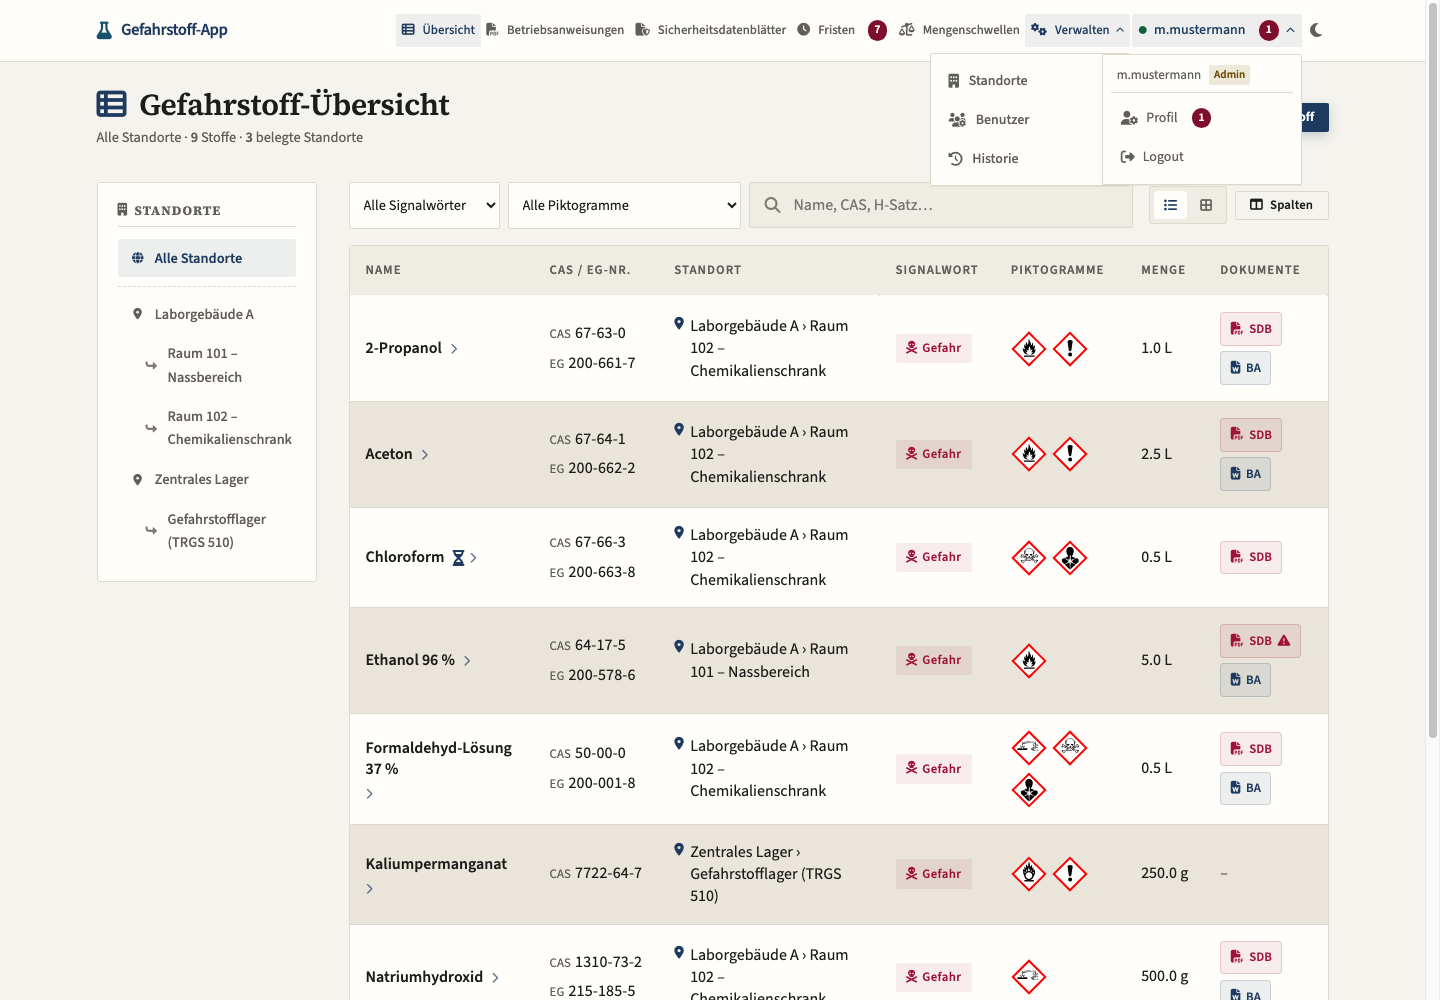
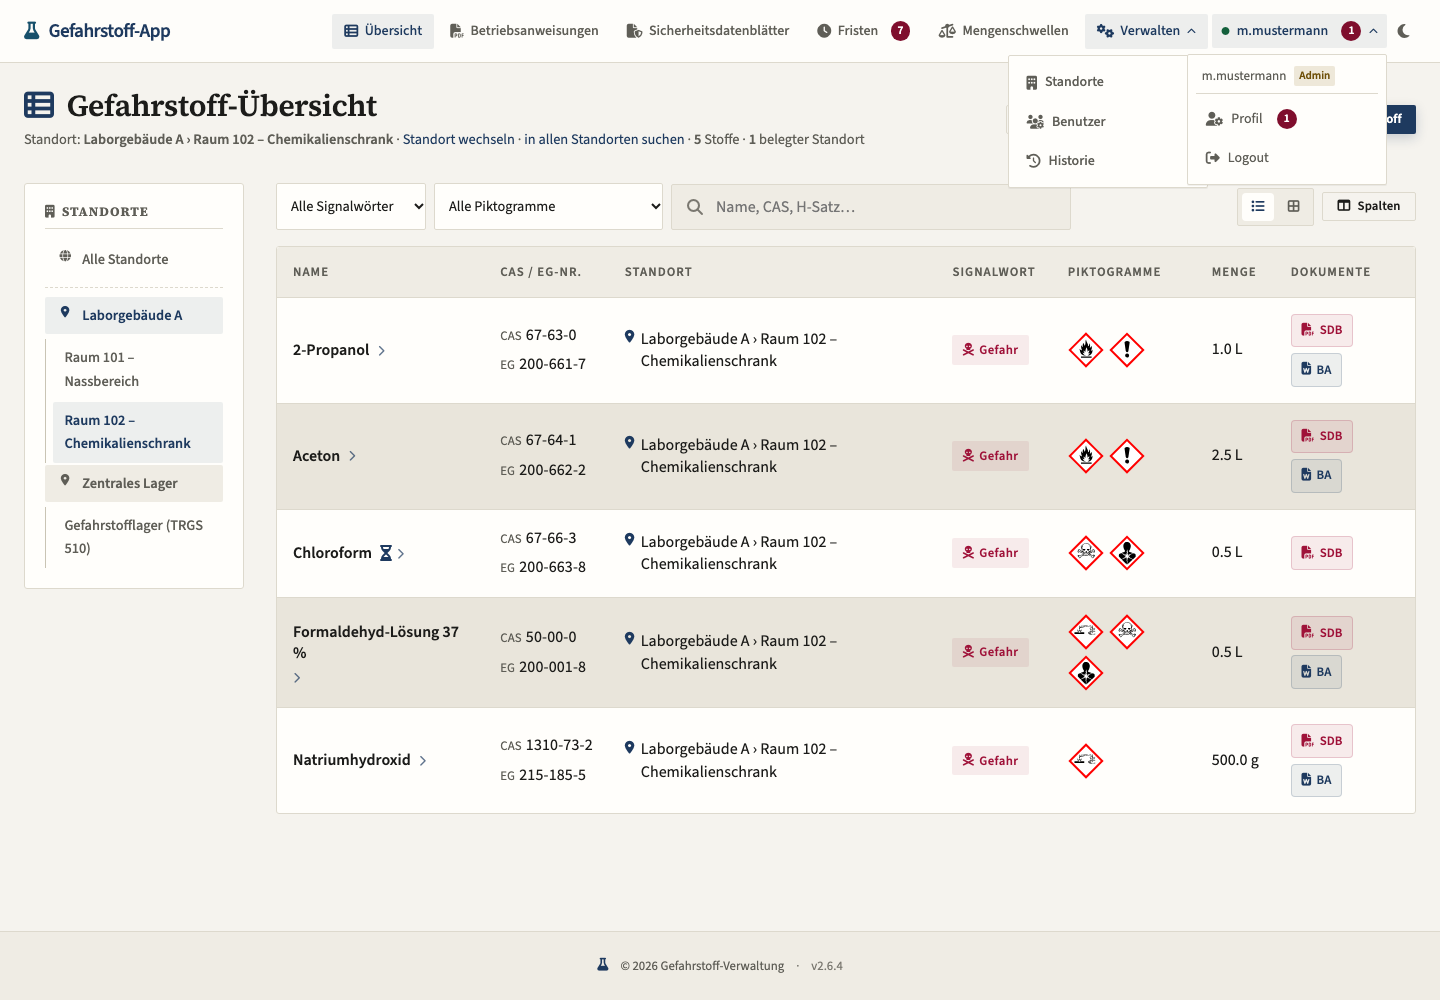
docs(handbuch): Bilder zur Standortansicht, Suche und Druck neu erzeugt
- 01-dashboard zeigt jetzt die Standortansicht (vorher die Gesamtliste)
- neu: 01-standortauswahl, 07-suche (drei Treffer aus zwei Standorten),
  08-verzeichnis-druck
- HANDBUCH bindet die drei neuen Bilder in 3.2, 3.4 und 3.5 ein
- werkzeuge/handbuchbilder.py: Standort-ID im Pfad, neue Seiten mit
  Bildhoehen, FLASK_SECRET_KEY als Wegwerfwert (die App bricht ohne ihn
  beim Import ab), veralteter Chloroform-Kommentar richtiggestellt

diff --git a/werkzeuge/handbuchbilder.py b/werkzeuge/handbuchbilder.py
@@ -43,15 +43,24 @@ CHROME = os.environ.get(
 # (Name, Kürzel, Breite, Höhe, eingeloggt, Menüs offen)
 SEITEN = [
     ('00-login', '/login', 1440, 760, False, False),
-    ('01-dashboard', '/', 1440, 1000, True, False),
+    # Seit v3.45 ist der Einstieg die Standortauswahl; '/' leitet weiter.
+    ('01-standortauswahl', '/standorte', 1440, 820, True, False),
+    # Die Standortansicht ersetzt das fruehere Dashboard (ein Standort
+    # statt des ganzen Verzeichnisses).
+    ('01-dashboard', '@raum102', 1440, 1000, True, False),
     # Für Abschnitt 3.1 des Handbuchs: beide Aufklappmenüs der Leiste offen,
     # sonst sind Standorte, Benutzer, Historie, Profil und Logout auf keinem Bild.
-    ('01b-dashboard-menue', '/', 1440, 1000, True, True),
+    ('01b-dashboard-menue', '@raum102', 1440, 1000, True, True),
     ('02-gefahrstoff-anlegen', '/add', 1440, 1700, True, False),
     ('03-gefahrstoff-detail', '@aceton', 1440, 1000, True, False),
     ('04-fristen', '/fristen', 1440, 900, True, False),
     ('05-schrank-aushang', '@lager/print', 1440, 1150, True, False),
     ('06-betriebsanweisung', '@aceton/ba', 1440, 1250, True, False),
+    # Suche ueber alle Standorte: H314 trifft Natriumhydroxid (Raum 102) und
+    # Salzsaeure (zentrales Lager) - so ist die Standortspalte sinnvoll belegt.
+    ('07-suche', '/suche?q=H314', 1440, 700, True, False),
+    # Gedrucktes Gesamtverzeichnis: Titel, Inhalt, erster Standort.
+    ('08-verzeichnis-druck', '/verzeichnis/druck', 1440, 1150, True, False),
 ]
 
 
@@ -66,6 +75,10 @@ def instanz_laden():
     """
     daten = tempfile.mkdtemp(prefix='gsv-handbuch-')
     os.environ['APP_DATA_DIR'] = daten
+    # Die Anwendung hat keinen Rueckfallwert fuer den Sitzungsschluessel und
+    # bricht beim Import ab, wenn er fehlt (seit der Haertung im Betrieb).
+    # Fur die Aufnahmen genuegt ein Wegwerfwert.
+    os.environ.setdefault('FLASK_SECRET_KEY', 'handbuch-bilder-only-key')
     sys.path.insert(0, REPO)
 
     import main as m
@@ -164,7 +177,8 @@ def daten_anlegen(m, daten):
                              menge=250.0, mengeneinheit='g',
                              unterbereich_id=lager510.id, user_id=chef.id))
 
-        # CMR-Stoff: wartet auf Freigabe und ist deshalb nicht sichtbar
+        # CMR-Stoff: wartet auf Freigabe. Der Administrator sieht ihn
+        # (seit v3.24), deshalb steht er mit Sanduhr auf dem Bild.
         db.add(m.Gefahrstoff(name='Chloroform', cas_nummer='67-66-3',
                              eg_nummer='200-663-8', signalwort='Gefahr',
                              piktogramme='GHS06,GHS08',
@@ -209,23 +223,26 @@ def daten_anlegen(m, daten):
         aceton_id = aceton.id
         lager_id = m.Unterbereich.query.filter_by(
             name='Gefahrstofflager (TRGS 510)').first().id
+        raum102_id = m.Unterbereich.query.filter_by(
+            name='Raum 102 – Chemikalienschrank').first().id
         print(f"Beispieldaten: {m.Gefahrstoff.query.count()} Gefahrstoffe, "
               f"{m.Bereich.query.count()} Bereiche, "
               f"{m.Unterbereich.query.count()} Standorte")
 
-    return aceton_id, lager_id
+    return aceton_id, lager_id, raum102_id
 
 
-def pfad_aufloesen(kuerzel, aceton_id, lager_id):
+def pfad_aufloesen(kuerzel, aceton_id, lager_id, raum102_id):
     """Ersetzt die Platzhalter in SEITEN durch echte Adressen."""
     return {
         '@aceton': f'/view/{aceton_id}',
         '@aceton/ba': f'/gefahrstoff/{aceton_id}/betriebsanweisung',
         '@lager/print': f'/location/{lager_id}/print',
+        '@raum102': f'/standort/{raum102_id}',
     }.get(kuerzel, kuerzel)
 
 
-def aufnahmen_machen(m, aceton_id, lager_id, arbeitsverzeichnis):
+def aufnahmen_machen(m, aceton_id, lager_id, raum102_id, arbeitsverzeichnis):
     """Rendert die Seiten und lässt Chrome Aufnahmen machen."""
     client = m.app.test_client()
     client.post('/login',
@@ -234,7 +251,7 @@ def aufnahmen_machen(m, aceton_id, lager_id, arbeitsverzeichnis):
 
     os.makedirs(ZIEL, exist_ok=True)
     for name, kuerzel, breite, hoehe, eingeloggt, menues_offen in SEITEN:
-        pfad = pfad_aufloesen(kuerzel, aceton_id, lager_id)
+        pfad = pfad_aufloesen(kuerzel, aceton_id, lager_id, raum102_id)
         c = client if eingeloggt else m.app.test_client()
         antwort = c.get(pfad)
         if antwort.status_code != 200:
@@ -285,8 +302,8 @@ def main():
     m, daten = instanz_laden()
     arbeitsverzeichnis = tempfile.mkdtemp(prefix='gsv-handbuch-html-')
     print(f"Isolierte Instanz unter {daten}")
-    aceton_id, lager_id = daten_anlegen(m, daten)
-    aufnahmen_machen(m, aceton_id, lager_id, arbeitsverzeichnis)
+    aceton_id, lager_id, raum102_id = daten_anlegen(m, daten)
+    aufnahmen_machen(m, aceton_id, lager_id, raum102_id, arbeitsverzeichnis)
     print(f"\nFertig. Bilder in {ZIEL}")
     print("PDF neu erzeugen: siehe Kopf von handbuch-druck.css")
 

diff --git a/HANDBUCH.md b/HANDBUCH.md
@@ -106,6 +106,8 @@ Was beim Aufruf passiert:
 * Beim ersten Aufruf, oder wenn die Berechtigung für den gemerkten Standort
   entfallen ist, erscheint die **Standortauswahl**.
 
+![Standortauswahl](handbuch-bilder/01-standortauswahl.png)
+
 Die Standortauswahl listet alle Standorte, die Sie sehen dürfen, nach Bereichen
 gruppiert. Je Zeile stehen die Zahl der Gefahrstoffe (einschließlich der
 Unter-Standorte) und, falls zutreffend, die Marke **Mengenschwelle**. Von hier
@@ -130,6 +132,8 @@ führen zwei Knöpfe weiter: **Stoff suchen** und **Verzeichnis drucken**.
 
 ### 3.4 Suche über alle Standorte
 
+![Suche über alle Standorte](handbuch-bilder/07-suche.png)
+
 Das Suchfeld in der Standortansicht findet nur, was gerade angezeigt wird. Für
 die Frage „wo liegt Aceton" gibt es **Übersicht → Stoff suchen** (`/suche`):
 
@@ -142,6 +146,8 @@ die Frage „wo liegt Aceton" gibt es **Übersicht → Stoff suchen** (`/suche`)
   nehmen Sie einen genaueren Suchbegriff oder das gedruckte Verzeichnis.
 
 ### 3.5 Verzeichnis drucken
+
+![Gesamtverzeichnis drucken](handbuch-bilder/08-verzeichnis-druck.png)
 
 **Übersicht → Verzeichnis drucken** (`/verzeichnis/druck`) erzeugt das
 **vollständige** Gefahrstoffverzeichnis als Druckseite:
